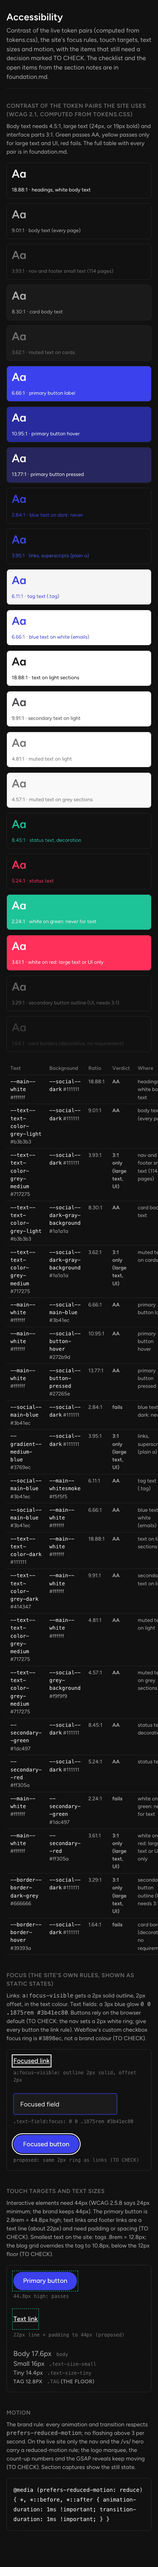
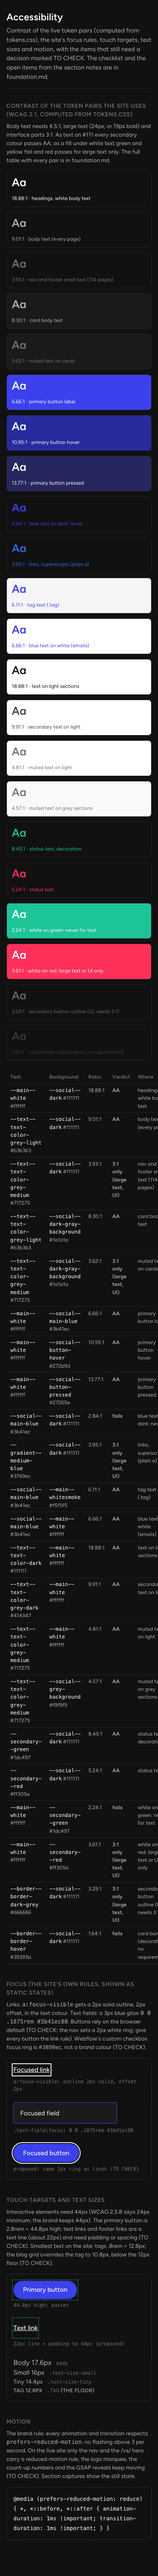
Design system: accessibility, shadows-and-radius, colors and tokens.json corrected
Accessibility: contrast rows for every surface token (dark-card,
dark-pill, light-grey) and for whitesmoke, where grey-medium small text
is 4.41:1 and fails; the e7e7e7 border row; the row heights and the
submit size as measured (48px, inputs 52px, FAQ rows about 48px); the
preview's status-colour sentence matches its table; WCAG 2.2 for 2.5.8.
Shadows and radius: rule counts corrected (26 pill rules, the px
spellings, 39 other values, 14 one-off shadow values, the fourth blue
glow); the audit is cited as a measurement, not as files outside the
repo; where the card shadow appears in the captured set.
Colors: the gradients as CSS from the captured sections, the 11 former
named gradients retired, the full light-mode email palette and the
whitesmoke small-text fix, the dark-mode palette and email-only values
owned by the spec, info stays #45a5ed, the 145deg text fill listed as a
known inconsistency, 13 of 17 deleted variables referenced.
tokens.json: the 9 empty uses filled; --main--white also on light.

diff --git a/design-system/foundations/shadows-and-radius/preview.html b/design-system/foundations/shadows-and-radius/preview.html
@@ -62,12 +62,12 @@ a { color: var(--main--white); }
 <main class="fx-page">
   <header class="fx-head">
     <h1>Shadows and radius</h1>
-    <p>The border radii and shadows the live site uses, with rule counts from the 7 October audit, and the reduced set the audit proposes for the team to decide. Depth on dark pages comes from lighter surfaces; the values are in foundation.md.</p>
+    <p>The border radii and shadows the live site uses, with rule counts measured on 7 October 2026 by the site audit, and the reduced set the audit proposes for the team to decide. Depth on dark pages comes from lighter surfaces; the values are in foundation.md.</p>
   </header>
 
   <section class="fx-block">
-    <h2 class="fx-label">Border radius: every value the live stylesheet uses more than twice (55 values in all, no token)</h2>
-    <p class="fx-note">Rule counts from the 7 October audit of the two Webflow stylesheets. The set the audit proposes (to decide, Stefan or Amadeus): <strong>8px</strong> cards and holders, <strong>16px</strong> images and forms, <strong>24px</strong> large images, <strong>pill</strong> buttons and tags, <strong>circle</strong> avatars. The 4px and 12px values stay where the site uses them until the team retires them.</p>
+    <h2 class="fx-label">Border radius: the values the live stylesheet uses most (55 values in all, no token)</h2>
+    <p class="fx-note">Rule counts over the two Webflow stylesheets, measured on 7 October 2026 by the site audit. Not shown: the px spellings 12px (8 rules), 16px (8), 8px (7) and 0 (7), nearly all on the AI pages and in Webflow defaults, and 35 values with one to four rules each. The set the audit proposes (to decide, Stefan or Amadeus): <strong>8px</strong> cards and holders, <strong>16px</strong> images and forms, <strong>24px</strong> large images, <strong>pill</strong> buttons and tags, <strong>circle</strong> avatars. The 4px and 12px values stay where the site uses them until the team retires them.</p>
     <div class="fx-sample"><div class="sr-grid">
 <div class="sr-r"><div class="sr-box" style="border-radius:.25rem"></div><span class="fx-cap">.25rem (4px)<br>33 rules: checkbox, announcement bar, blog share, inputs (4px), .tag.c-nav-webinar</span></div>
 <div class="sr-r"><div class="sr-box" style="border-radius:.36rem"></div><span class="fx-cap">.36rem (5.8px)<br>3 rules: .tag, .blog-tag, .pu-tag</span></div>
@@ -76,7 +76,7 @@ a { color: var(--main--white); }
 <div class="sr-r"><div class="sr-box" style="border-radius:1rem"></div><span class="fx-cap">1rem (16px)<br>52 rules: image ratio classes, thumbnails, forms, pop-ups, answers image, rich-text images (product updates)</span></div>
 <div class="sr-r"><div class="sr-box" style="border-radius:1.5rem"></div><span class="fx-cap">1.5rem (24px)<br>11 rules: rich-text images (.rich-text), hero tag, image_radius-parent, slider</span></div>
 <div class="sr-r"><div class="sr-box" style="border-radius:10em"></div><span class="fx-cap">10em / 25em (pill)<br>2 rules: .cta-button outer / .cta-button_bg inner (primary and secondary buttons)</span></div>
-<div class="sr-r"><div class="sr-box" style="border-radius:999px"></div><span class="fx-cap">999px, 99rem, 100rem, 20rem, 25rem, 10rem (pill)<br>20 rules: nav links, card-icon-v1, filter tags, .button submit, rounded inputs, .tag.c-new (six spellings)</span></div>
+<div class="sr-r"><div class="sr-box" style="border-radius:999px"></div><span class="fx-cap">999px, 99rem, 100rem, 20rem, 25rem, 10rem (pill)<br>26 rules: nav links, card-icon-v1, filter tags, .button submit, rounded inputs, .tag.c-new (six spellings)</span></div>
 <div class="sr-r"><div class="sr-box" style="border-radius:50%"></div><span class="fx-cap">50% / 100% (circle)<br>25 rules: avatars, author images, button arrow circle, dots</span></div>
 
     </div></div>

diff --git a/design-system/foundations/accessibility/preview.html b/design-system/foundations/accessibility/preview.html
@@ -74,7 +74,7 @@ a.ax-link:focus-visible { outline-offset: .125rem; outline-width: .125rem; outli
 
   <section class="fx-block">
     <h2 class="fx-label">Contrast of the token pairs the site uses (WCAG 2.1, computed from tokens.css)</h2>
-    <p class="fx-note">Body text needs 4.5:1, large text (24px, or 19px bold) and interface parts 3:1. Green passes AA, yellow passes only for large text and UI, red fails. The full table with every pair is in foundation.md.</p>
+    <p class="fx-note">Body text needs 4.5:1, large text (24px, or 19px bold) and interface parts 3:1. As text on #111 every secondary colour passes AA; as a fill under white text green and yellow fail and red passes for large text only. The full table with every pair is in foundation.md.</p>
     <div class="ax-swatches">
 <div class="ax-sw" style="background:#111111;color:#ffffff"><span class="ax-big">Aa</span><span class="ax-small">18.88:1 · headings, white body text</span></div>
 <div class="ax-sw" style="background:#111111;color:#b3b3b3"><span class="ax-big">Aa</span><span class="ax-small">9.01:1 · body text (every page)</span></div>

diff --git a/design-system/foundations/accessibility/foundation.md b/design-system/foundations/accessibility/foundation.md
@@ -1,6 +1,6 @@
 # Accessibility
 
-WCAG 2.1 AA is the target for every page, email and graphic. This foundation holds the contrast of the live token pairs (computed from tokens.css), the site's focus rules, touch targets, text sizes, motion, keyboard and structure rules, and the open items the section notes marked TO CHECK.
+WCAG 2.1 AA is the target for every page, email and graphic. This foundation holds the contrast of the text and background token pairs the site and the emails use (computed from tokens.css; every surface token has its rows), the site's focus rules, touch targets, text sizes, motion, keyboard and structure rules, and the open items the section notes marked TO CHECK.
 
 - Status: draft (2026-10-07), as-is: ratios computed from the live tokens, rules from the brand guidelines (formerly `design-system/accessibility.md`) · Owner: Stefan · Approved by: TO CHECK (Stefan or Amadeus)
 - Source: tokens.css (WCAG 2.1 relative luminance), the captured sections' CSS (`a:focus-visible`, `.text-field:focus`), the section notes
@@ -24,13 +24,22 @@ Body text needs 4.5:1; large text (24px, or 19px bold) and interface parts (bord
 | `--text--text-color-grey-medium` | `--social--dark-gray-background` | 3.62:1 | large text and UI only | muted text on cards |
 | `--main--white` | `--secondary--menu-bg` #181818 | 17.76:1 | AA | nav links |
 | `--text--text-color-grey-medium` | `--secondary--menu-bg` | 3.69:1 | large text and UI only | nav small text |
+| `--main--white` | `--social--dark-card` #161616 | 18.10:1 | AA | card headings |
+| `--text--text-color-grey-light` | `--social--dark-card` | 8.63:1 | AA | card body |
+| `--text--text-color-grey-medium` | `--social--dark-card` | 3.76:1 | large text and UI only | |
+| `--main--white` | `--social--dark-pill` #2e2e2e | 13.58:1 | AA | pill label |
+| `--text--text-color-grey-light` | `--social--dark-pill` | 6.48:1 | AA | |
+| `--text--text-color-grey-medium` | `--social--dark-pill` | 2.82:1 | fails | never |
+| `--main--white` | `--social--light-grey` #444 | 9.74:1 | AA | chip label |
+| `--text--text-color-grey-light` | `--social--light-grey` | 4.65:1 | AA | just above the line |
+| `--text--text-color-grey-medium` | `--social--light-grey` | 2.02:1 | fails | never |
 | `--main--white` | `--social--grey` #222 | 15.91:1 | AA | panels |
 | `--text--text-color-grey-light` | `--social--grey` | 7.59:1 | AA | panel body |
 | `--main--white` | `--social--main-blue` #3b41ec | 6.66:1 | AA | primary button label, tags on blue |
 | `--main--white` | `--social--button-hover` #272b9d | 10.95:1 | AA | primary button hover |
 | `--main--white` | `--social--button-pressed` #27265e | 13.77:1 | AA | primary button pressed |
 | `--social--main-blue` #3b41ec | `--social--dark` | 2.84:1 | fails | blue as text or icon colour on dark: never. Blue is a fill (button, circle, tag background), not a text colour on dark |
-| `--gradient--medium-blue` #3769ec | `--social--dark` | 3.95:1 | large text and UI only | plain links and superscripts on the live site: TO CHECK (underline or a lighter blue such as #7b94fe, 6.75:1, which page embeds already use) |
+| `--gradient--medium-blue` #3769ec | `--social--dark` | 3.95:1 | large text and UI only | plain links and superscripts on the live site: TO CHECK (underline or a lighter blue such as #7b94fe, 6.75:1, which the page embeds and three AI-page rules already use; until decided follow the rule in `brain.md`: white, or #7b94fe) |
 | `--social--main-blue` | `--main--whitesmoke` #f5f5f5 | 6.11:1 | AA | `.tag` text |
 | `--social--main-blue` | `--main--white` | 6.66:1 | AA | blue text and outlined buttons on white (emails) |
 | `--gradient--medium-blue` | `--main--white` | 4.78:1 | AA | links on white |
@@ -40,6 +49,10 @@ Body text needs 4.5:1; large text (24px, or 19px bold) and interface parts (bord
 | `--text--text-color-dark` | `--social--grey-background` #f9f9f9 | 17.94:1 | AA | text on grey sections |
 | `--text--text-color-grey-dark` | `--social--grey-background` | 9.41:1 | AA | |
 | `--text--text-color-grey-medium` | `--social--grey-background` | 4.57:1 | AA | just above the line |
+| `--text--text-color-dark` | `--main--whitesmoke` #f5f5f5 | 17.32:1 | AA | headings on whitesmoke, email page background |
+| `--text--text-color-grey-dark` | `--main--whitesmoke` | 9.09:1 | AA | body and small text on whitesmoke |
+| `--text--text-color-grey-medium` | `--main--whitesmoke` | 4.41:1 | large text and UI only | fails for body or small text: on whitesmoke use `--text--text-color-grey-dark` #414347 (emails: the #f5f5f5 page background) |
+| `--gradient--medium-blue` | `--main--whitesmoke` | 4.38:1 | large text and UI only | links on whitesmoke: use `--social--main-blue` (6.11:1) |
 | `--secondary--green` #1dc497 | `--social--dark` | 8.45:1 | AA | status text |
 | `--secondary--yellow` #f7c506 | `--social--dark` | 11.64:1 | AA | status text |
 | `--secondary--red` #ff305a | `--social--dark` | 5.24:1 | AA | status and error text |
@@ -53,8 +66,9 @@ Body text needs 4.5:1; large text (24px, or 19px bold) and interface parts (bord
 | `--border--border-hover` #39393a | `--social--dark` | 1.64:1 | decorative | card borders carry no meaning |
 | `--border--border-dark` #232324 | `--social--dark` | 1.20:1 | decorative | dividers |
 | `--border--border-med-grey` #d0d0d1 | `--main--white` | 1.54:1 | decorative | light input border: the input needs another cue (label, focus ring) |
+| `--border--border-light-grey` #e7e7e7 | `--main--white` | 1.24:1 | decorative | email dividers and the footer top border carry no meaning |
 
-Values regular sections use that are not tokens: `#dc3545` form error on #111 is 4.17:1 (below 4.5:1, TO CHECK: use `--secondary--red`); `.tag.c-new` #3ccb7f on #093a20 is 6.13:1; input background #1b1b1b with grey-light text is 8.21:1.
+Values regular sections use that are not tokens: `#dc3545` form error on #111 is 4.17:1 (below 4.5:1, TO CHECK: use `--secondary--red`); `.tag.c-new` #3ccb7f on #093a20 is 6.13:1; input background #1b1b1b with grey-light text is 8.21:1. Not a token either: #7b94fe on #111 is 6.75:1 (the blue the page embeds and three AI-page rules use for text on dark; see the rule for links on dark in `brain.md`).
 
 ## Focus
 
@@ -65,7 +79,7 @@ Values regular sections use that are not tokens: `#dc3545` form error on #111 is
 
 ## Touch targets and text size
 
-- 44px minimum for every interactive element (the brand keeps 44 although WCAG 2.5.8 asks 24). The primary and secondary buttons are 2.8rem = 44.8px; the form submit is 52px; text links and footer links are a text line of about 22px and need padding or spacing (TO CHECK); accordion rows are 12px padding around a 19.2px line, about 43px (TO CHECK).
+- 44px minimum for every interactive element (the brand keeps 44 although WCAG 2.2 criterion 2.5.8 asks 24). The primary and secondary buttons are 2.8rem = 44.8px; the form submit `.button` is 48px (min-height 3rem) and the input fields 52px (3.25rem); text links and footer links are a text line of about 22px and need padding or spacing (TO CHECK); FAQ accordion rows are about 48px (`.accordion_top` padding .75rem and .5rem around a 1.2rem question line at 1.25 with its .25rem margin).
 - 12px is the floor. Smallest live sizes: `.tag` .8rem = 12.8px, `.superscript` 14px, `.text-size-tiny` and `.heading-xsmall` 14.4px. The blog grid overrides the tag to 10.8px (TO CHECK: below the floor).
 - Uppercase only at tag and superscript size, with letter spacing (.025rem on tags, .044rem on superscripts).
 
@@ -92,7 +106,7 @@ Values regular sections use that are not tokens: `#dc3545` form error on #111 is
 
 ## Checklist before a page or email ships
 
-- [ ] Every text and background pair is in the table above with AA, or large text at 3:1
+- [ ] Every text and background pair is in the table above with AA (or large text at 3:1), or computed the same way and added to it
 - [ ] No `--social--main-blue` text or icon on a dark background
 - [ ] Focus ring visible on every link, button and field, on dark and on light
 - [ ] 44px targets; nothing under 12px
@@ -101,4 +115,4 @@ Values regular sections use that are not tokens: `#dc3545` form error on #111 is
 - [ ] Accordions, tabs and sliders work with the keyboard, or the page uses the static state
 - [ ] Forms: visible labels, text errors linked to the field
 - [ ] Reduced motion: nothing keeps moving
-- [ ] Emails: the same pairs on white (`#414347` body, `#717275` small text, `#3b41ec` links and buttons with white labels)
+- [ ] Emails: the same pairs on white (`#414347` body, `#717275` small text on white only, `#414347` for small text on the `#f5f5f5` page background, `#3b41ec` links and buttons with white labels)

diff --git a/design-system/foundations/colors/foundation.md b/design-system/foundations/colors/foundation.md
@@ -18,19 +18,24 @@ The 44 live Webflow variables (General and Typography collections) as swatches w
 - Two blues: `--social--main-blue` #3b41ec (buttons, tags, icons) and `--gradient--medium-blue` #3769ec (links, superscripts). Page embeds add #6b9fff, #5c6ef8, #2f6bed, #3b82f6, #7b94fe. Open question 3 of the audit
 - 192 of 224 colour values in the stylesheets are not a token; the ones regular sections depend on are listed at the bottom of the preview (#141414 radial gradient, #1b1b1b inputs, #dc3545 form errors, #3ccb7f/#093a20 `.tag.c-new`, #14152c industry hero)
 - Token values typed as hex in rules (#111 ×14, #222 ×11, #1a1a1a ×8 …), so a token change would not reach them
-- 17 deleted Webflow variables are still emitted and referenced by 27 live rules; the capture rewrites them to live equivalents (`deletedVariableMap` in capture.config.json) and tokens.css leaves them out
+- 17 deleted Webflow variables are still emitted; 13 of them are referenced by 27 live rules; the capture rewrites them to live equivalents (`deletedVariableMap` in capture.config.json) and tokens.css leaves them out
 - Unused or single-use tokens: `--text--text-color-grey-muted` (no rule), grey-lighter, grey-mid, `--social--dark-pill` (one rule each)
 - `--text--text-color-grey-medium` #717275 on #111 is 3.9:1, below 4.5:1; used on 114 pages (nav, footer)
 - No light-surface pair, no radius or shadow tokens (radii in use: .5rem, 1rem, .75rem, .25rem, 1.5rem, 16px, 12px, pill 999px/99rem/100rem/20rem; the recurring shadow is `0 16px 2rem #12141914`)
 - `--main--transparant` is spelled with an "a" on the site
+- The site has one blue gradient on text: `linear-gradient(145deg, var(--gradient--light-blue), var(--gradient--dark-blue))` as a `background-clip: text` fill on superscripts (sections 42 and 60), next to the `h1` radial fill (typography foundation). Neither is a licence: see "No gradient on text" below
 
 ## Brand extras (emails, social graphics): not website tokens, clearly separate
 
 Things emails and social graphics need that `tokens.css` does not define. They are not Webflow variables; on a web page use the tokens above.
 
-- **Brand blue gradient** (announcement banner, heroes, social graphics): `--gradient--light-blue` #45a5ed to `--gradient--medium-blue` #3769ec to `--gradient--dark-blue` (= main blue #3b41ec). The direction on the site is 135deg; in the logo mark the same stops run medium to main to light
-- **Warm gradient** (decoration and the logo mark only, never CTAs): `--secondary--pink` #f568f0 to `--secondary--orange` #ff6937 to `--secondary--yellow` #f7c506; pairs the site also uses: orange to yellow, pink to orange, red #ff305a to pink. The logo mark's own warm stop is #f66005 (artwork, not a token)
+- **Gradients as the site has them** (the captured CSS; use these, as CSS, for graphics and emails):
+  - Site blue gradient: `linear-gradient(145deg, var(--gradient--light-blue), var(--gradient--dark-blue))` = `linear-gradient(145deg, #45a5ed, #3b41ec)`. Two stops; on the site it is a text fill on superscripts (a known inconsistency, above); for graphics use it as a background or a shape
+  - Button fill: `linear-gradient(90deg, var(--social--main-blue), var(--social--button-hover))` = `#3b41ec` to `#272b9d` (every primary button)
+  - Avatar ring: `linear-gradient(#f7c506, #f568f0 50%, #3b41ec)` (yellow to pink to main blue, top to bottom; thumbnail grid 30, featured item 31, article 40)
+  - Logo mark, blue arm: `#3769ec` at 9.7%, `#3b41ec` at 46.9%, `#45a5ed` at 91% (artwork, from the SVG; not a CSS gradient on the site)
+- **Warm gradient** (decoration and the logo mark only, never CTAs): `linear-gradient(to right, #f568f0, #ff6937, #f7c506)` = `--secondary--pink` to `--secondary--orange` to `--secondary--yellow` (the former "Brand Pink" with the token orange; the logo mark's own warm stop is #f66005, artwork, not a token). The 11 named gradients of the former `colors-usage.md` (Brand Blue, Solar, Brand Pink, Airy, Depth, Authority, Vibrant, Ember, Prestige, Gold, Energy) are retired: none is on the site
 - **No gradient on text**: a gradient is a background or a shape; text stays one solid colour. The live `h1` radial text fill is a known inconsistency (typography foundation), not a licence
-- **Light-mode email palette** (MailerLite emails render on white; the full spec is `emails/product-update-newsletter-spec.md`): background `--main--white` and `--main--whitesmoke` #f5f5f5 panels; text `--text--text-color-dark` #111 headings, `--text--text-color-grey-dark` #414347 body, `--text--text-color-grey-medium` #717275 small; button `--social--main-blue` #3b41ec with white label, hover `--social--button-hover` #272b9d; outlined button text #3b41ec on white (6.66:1). The dark email header uses #1a1a1a (= `--social--dark-gray-background`) and #2d2d2d, #7b7fff for links on dark, #a0a0a3 muted: email-only values that live in the email spec, not here
-- **Blue text on dark**: `--social--main-blue` fails as a text colour on #111 (2.84:1). Page embeds on the site use #7b94fe (6.75:1) for that; it is not a token (TO CHECK: add it, or always use white text with a blue fill)
-- **Status colours** are the secondary tokens: green #1dc497 success, yellow #f7c506 warning (dark text on it), red #ff305a error (text on dark; white on red only for large text), `--gradient--medium-blue` #3769ec info. Light-mode variants of the former extended palette (#cc9202, #1b89dc, #f66005) are not on the site and are not used
+- **Light-mode email palette** (MailerLite emails render on white; the full spec is `emails/product-update-newsletter-spec.md`, which also sets the email font, Inter): page background `--main--whitesmoke` #f5f5f5, content `--main--white`, alternate sections `--social--grey-background` #f9f9f9; text `--text--text-color-dark` #111 headings, `--text--text-color-grey-dark` #414347 body, `--text--text-color-grey-medium` #717275 small text on white only (on the #f5f5f5 page background it is 4.41:1 and fails body text: use #414347 there, or keep #717275 for 19px bold and larger); `--text--text-color-grey-light` #b3b3b3 for the footer separator (decorative); borders `--border--border-light-grey` #e7e7e7; button `--social--main-blue` #3b41ec with white label, hover `--social--button-hover` #272b9d; outlined button text #3b41ec on white (6.66:1). The client dark-mode palette (`prefers-color-scheme: dark`: #1a1a1a = `--social--dark-gray-background`, #2d2d2d, #7b7fff links, #a0a0a3 secondary, #f0f0f0, #e0e0e0, #555555) and the email-only values (module badge pairs, social icon colours) are owned by the spec, not by this foundation
+- **Blue text on dark**: `--social--main-blue` fails as a text colour on #111 (2.84:1). Page embeds and three AI-page rules on the site use #7b94fe (6.75:1) for that; it is not a token (TO CHECK: add it, or always use white text with a blue fill). The rule until then is in `brain.md`: links and icons on dark are white, or #7b94fe
+- **Status colours** are the secondary tokens: green #1dc497 success, yellow #f7c506 warning (dark text on it), red #ff305a error (text on dark; white on red only for large text), `--gradient--light-blue` #45a5ed info (as the former palette had it). Light-mode variants of the former extended palette (#cc9202, #1b89dc, #f66005) are not on the site and are not used

diff --git a/design-system/foundations/shadows-and-radius/foundation.md b/design-system/foundations/shadows-and-radius/foundation.md
@@ -3,7 +3,7 @@
 The border radii and shadows the live site uses, with rule counts from the 7 October 2026 audit of the two Webflow stylesheets, and the reduced set the audit proposes. Neither has a token today; the proposal waits for the team's decision.
 
 - Status: draft (2026-10-07), as-is: values as the stylesheet has them, no team decision applied; replaces the former `design-system/shadows.md` and `border-radius.md` · Owner: Stefan · Approved by: TO CHECK (Stefan or Amadeus)
-- Source: the audit (`2026-10-07-audit-report.md`, section 2.6, with `raw/css-values.json`) and the captured sections' CSS
+- Source: rule counts over the two live Webflow stylesheets, measured on 7 October 2026 by the site audit (the counts are reproduced in the tables below), and the captured sections' CSS
 - Preview: preview.html (hand-made, links ../../tokens.css) · Code: styles.css · Screenshots: desktop.png (1440), mobile.png (390)
 - Not produced by capture/: the preview is written by hand and survives re-runs
 
@@ -18,11 +18,14 @@ The border radii and shadows the live site uses, with rule counts from the 7 Oct
 | `1rem` 16px | 52 | image ratio classes, thumbnails, forms, pop-ups, answers image, rich-text images in product updates |
 | `1.5rem` 24px | 11 | rich-text images (`.rich-text`), hero tag, `.image_radius-parent`, slider |
 | `10em` / `25em` | 2 / 2 | `.cta-button` outer and `.cta-button_bg` inner (primary and secondary buttons) |
-| `999px`, `99rem`, `100rem`, `20rem`, `25rem`, `10rem` | 20 | nav links, `.card-icon-v1`, filter tags, `.button` submit, rounded inputs, `.tag.c-new`: six ways to write "pill" |
+| `999px`, `99rem`, `100rem`, `20rem`, `25rem`, `10rem` | 26 (7 + 4 + 4 + 6 + 2 + 3) | nav links, `.card-icon-v1`, filter tags, `.button` submit, rounded inputs, `.tag.c-new`: six ways to write "pill" |
 | `50%` / `100%` | 18 / 7 | avatars, author images, the button arrow circle, dots |
-| other | 31 | one or two rules each (`.375rem`, `.85rem`, `1.25rem`, `2rem`, `12px`, `16px`, `20px`, mixed corners such as `0 1.5rem 1.5rem` on blog images) |
+| `12px`, `16px`, `8px`, `0` | 8, 8, 7, 7 | px spellings on the AI pages (`.vise-*`, `.vcmp-*`, `.jp-*`) and Webflow defaults; `0` on blog image wrappers and nav lists |
+| other (35 values) | 56 | `2px` ×4; `.125rem`, `.375rem`, `10px`, `4px`, `3px` and `0 1.5rem 1.5rem` ×3 each; 11 values ×2; 18 values ×1 (`.85rem`, `1.25rem`, `2rem`, `20px`, `999rem`, mixed corners such as `0 1rem 1rem` on featured images) |
 
 ## Shadows as measured (24 values, none a token)
+
+Of the 41 captured section types only the hero illustration variant (02 `--illustration`, the white slider box) carries the card shadow; its other uses (AWS, pricing pop-ups, forms, news, SDK cards) are on pages outside the set.
 
 | Value | Rules | Where |
 |---|---|---|
@@ -32,10 +35,11 @@ The border radii and shadows the live site uses, with rule counts from the 7 Oct
 | `0 0 1rem #12141929` | 1 | pricing tooltip |
 | `0 -24px 50px #00000073` | 1 | mobile nav sheet (upwards) |
 | `0 16px 40px -20px #3b41ec73` | 3 | blue glow on the AI pages (code block, folder, term) |
+| `0 4px 20px #3b41ec73` | 1 | blue glow on the AI page agent mark |
 | `0 0 24px #3b41ec2e` | 1 | blue glow on the /vs/ comparison highlight card |
 | `0 0 40px #3b41ec1a` | 1 | blue glow on the AI page "ours" column |
 | `0 0 .1875rem #3b41ec80` | 1 | text field focus ring (see the accessibility foundation) |
-| Webflow and AI-page one-offs | 9 | `#3898ec` checkbox focus, `#e76043` swiper, `vise-*` and `vcmp-*` panels, the Webflow badge |
+| Webflow and AI-page one-offs (14 values) | 17 | `#3898ec` checkbox focus and `#e76043` swiper ×2 each, `0 8px 18px #00000080` AI pills ×2; one rule each: `0 16px 2rem #12021929` (the pricing pop-up, a mistyped card shadow), `0 0 1rem #0000001a`, `vise-*` and `vcmp-*` panels, `var(--shadow-3)` on the AI page, the Webflow badge and slider defaults |
 
 ## Depth on dark pages
 
@@ -53,7 +57,7 @@ From the audit, open question 9 ("add radius and shadow tokens"):
 | radius pill | `100rem` | `10em`, `25em`, `999px`, `99rem`, `100rem`, `20rem`, `25rem`, `10rem` |
 | radius circle | `50%` | `100%`, `999rem` |
 | shadow card | `0 16px 2rem #12141914` (hover `#12141929`) | the four `#121419` variants |
-| shadow glow | `0 0 24px #3b41ec2e` | the three blue glows |
+| shadow glow | `0 0 24px #3b41ec2e` | the four blue glows |
 
 The former `shadows.md` scale (`--shadow-sm` to `--shadow-xl`, light and dark values, eight z-index layers) and the former `border-radius.md` nine-step scale were not on the site; the values above are what the site has. Until the team decides, use the measured value of the section you are building from, and the proposed set for anything new.
 
